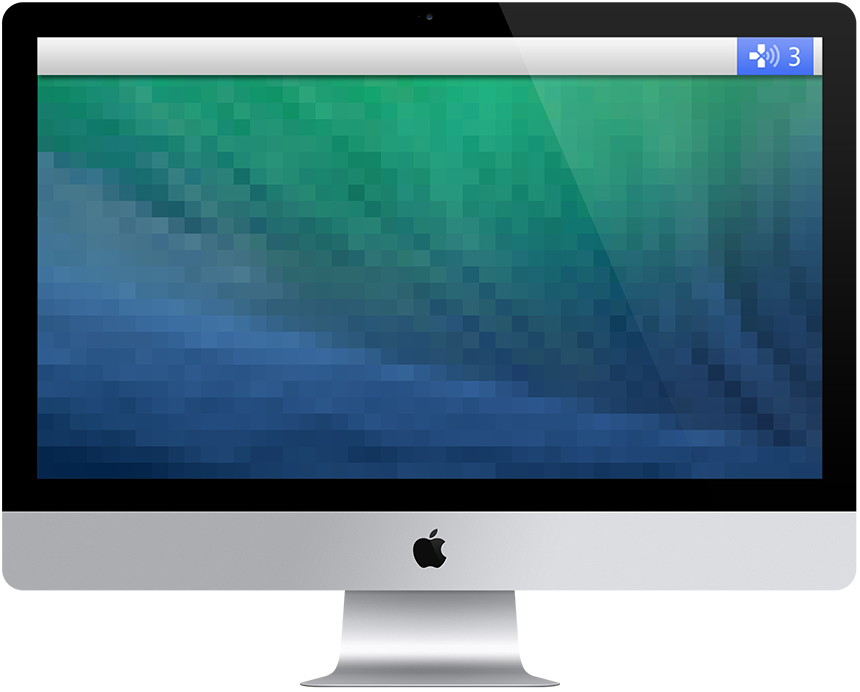
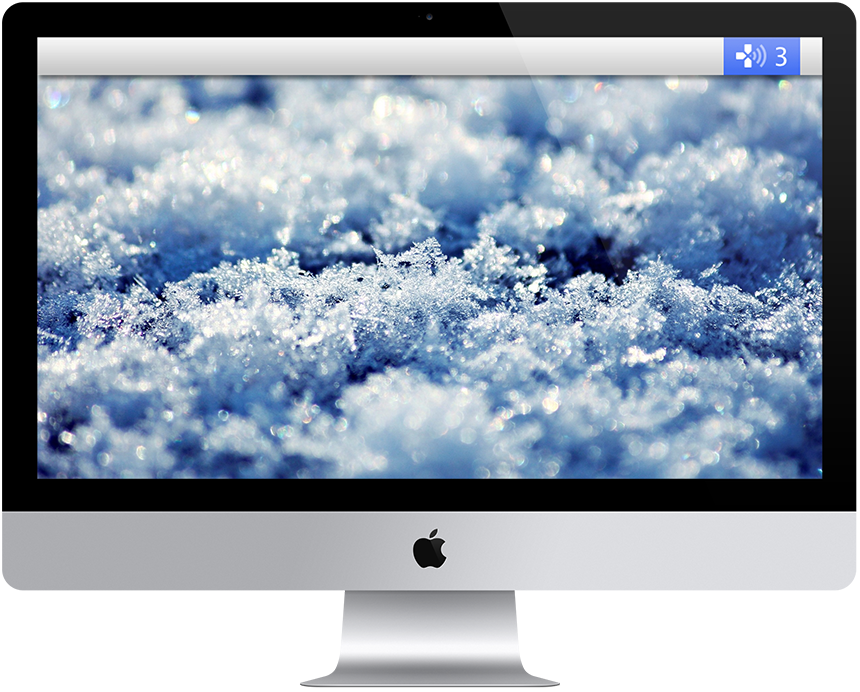
Optimize things.

diff --git a/stylesheets/site.css b/stylesheets/site.css
@@ -17,7 +17,9 @@ i, p, ul { font-family: "prenton", "helvetica neue", helvetica, sans-serif; }
 
 header {
     background-color: #666;
-    background-image: url('http://static.simpledesktops.com/uploads/desktops/2013/06/11/pixelmavs.png');
+    background-image: url('../images/ice.jpg');
+    background-position: 50% 50%;
+    background-size: 100% auto;
     color: #fff;
 
     padding-top: 40px;
@@ -37,6 +39,7 @@ header p {
 
 
 .main h2 {
+    color: #333;
     font-weight: 200;
     line-height: 1.1;
     text-align: right;
@@ -44,9 +47,9 @@ header p {
     margin-top: 8px;
     padding-left: 5%; }
 .main p {
+    color: #999;
     font-size: 14px;
-    line-height: 1.5;
-    color: #999; }
+    line-height: 1.5; }
 
 .features {
     color: #666;
@@ -75,7 +78,7 @@ header p {
     width: 348px; height: 292px;
 
     position: absolute;
-    top: 0px; left: 32px;
+    top: 0px; left: 20px;
     z-index: 10; }
 .mac {
     background-image: url('../images/mac.png');
